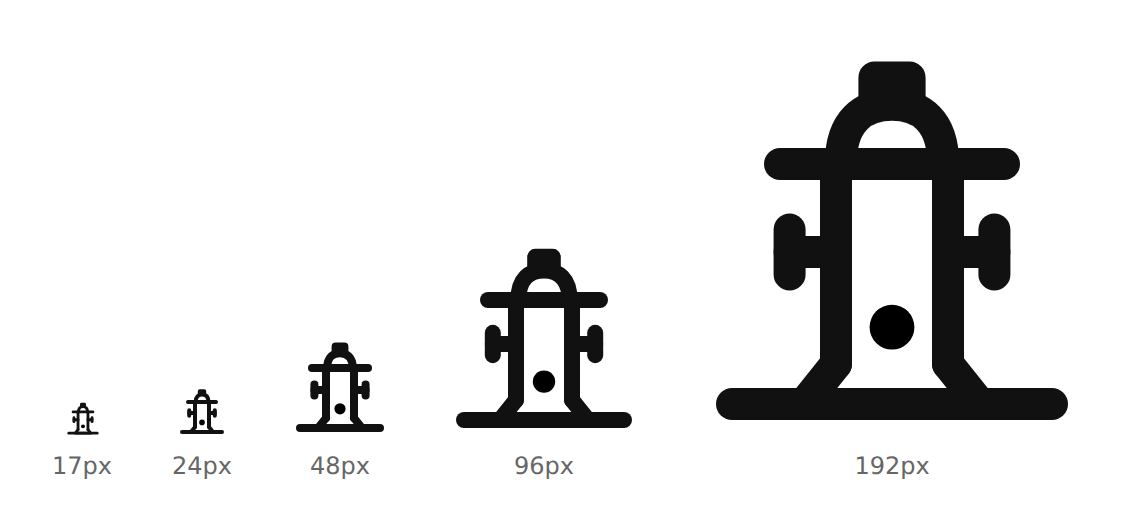
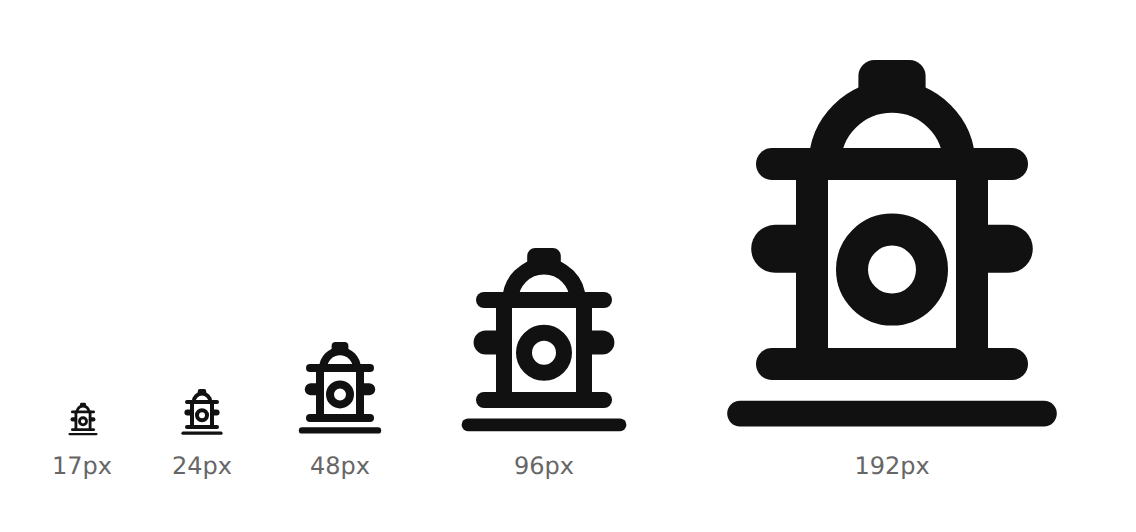
The hydrant follows Toms CAD: dome on a collar, a ring not a bolt

diff --git a/lib/Icons.lib.php b/lib/Icons.lib.php
@@ -422,46 +422,63 @@ $ec_icons = array(
 	// the `fire-flow` branch, not on master. It is a finished drawing with a Tom-reviewed shape, so
 	// it keeps its entry the way `plan` below does. Do not delete it as dead code.
 	//
-	// **IT IS A VERTICAL CYLINDER -- A PIPE WITH A FEW GOODIES ON IT.** That is Tom's correction of
-	// the first drawing, 2026-08-25, and it is a correction about PROPORTION, not about features:
-	// *"you missed the key physical reality that it's fundamentally a vertical cylinder (your main
-	// failure), meaning a pipe with a few goodies on it."* The first version was 9 units wide and 11
-	// tall and read as a squat box. This barrel is 7 wide and 12.5 tall, and the two flanges it is
-	// bracketed by -- the collar at the bonnet and the splayed foot -- are BOTH wider than it, which
-	// is what makes the eye read the middle as a length of pipe rather than as a body.
+	// **REDRAWN 2026-08-26 AGAINST TOM'S OWN CAD FRONT ELEVATION**, which he supplied twice --
+	// once as a wireframe/filled pair and once beside a commercial line icon -- with the ruling
+	// *"Hydrant PNG: unsuitable. Follow [the images] more closely."* Three things in the previous
+	// drawing were STRUCTURAL errors, not matters of taste, and they are the ones to not reintroduce:
+	//   the bonnet dome sprang from INSIDE the barrel walls with the collar drawn across its legs,
+	//     so it read as an arch cut into the barrel rather than a dome sitting on a flange;
+	//   the pumper nozzle was a solid disc, which at 96 px and above reads as a bolt hole;
+	//   the side nozzles were a stub plus a cross-bar, which reads as a bracket, not a nozzle.
+	// Now: the collar is a bar the dome STANDS ON, the pumper is a ring, and each side nozzle is a
+	// single round-capped stroke -- a pill, which is the shape both references actually show.
 	//
-	// Drawn from his own CAD front elevation, top to bottom: the operating nut (a small square,
-	// turned with a wrench to open the valve), the domed bonnet, the wide flat collar, the barrel,
-	// two side nozzles each with its own smaller nut, the pumper nozzle on the face, and the foot on
-	// a ground line. Every square and knob on a real hydrant is a nut for a wrench; the side and
-	// front ones take the dust caps off, the top one turns the water on.
+	// **THE BARREL IS WIDER THAN THE OLD ONE, AND THAT IS NOT A REVERSAL OF HIS "VERTICAL CYLINDER"
+	// CORRECTION.** He rejected a first drawing that was 9 wide and 11 tall as a squat box, and the
+	// fix taken then was a 7-wide barrel. Measured off his CAD, the barrel there is WIDER than it is
+	// tall; what makes the eye read it as a length of pipe is that the collar and the foot are both
+	// wider still and BRACKET it. So the bracketing carries the reading, not a narrow barrel -- and
+	// the extra width is what finally leaves room for a ring instead of a dot. Barrel walls at
+	// x = 7 and 17; collar and flange both 4.5 to 19.5.
 	//
-	// **WHAT DID NOT SURVIVE 17 px, MEASURED RATHER THAN JUDGED.** The nut inside the pumper circle
-	// is gone, and the pumper is a solid disc rather than a ring: a ring needs r >= 2.6 to hold an
-	// open centre, and the barrel only offers 5 units of clear width between its walls, so the ring
-	// fuses to both. Two other arrangements were drawn and measured first -- a disc sharing the
-	// nozzle band (the middle of the icon became one block) and a ring cut into the barrel walls
-	// with the nozzles above it (the nozzles fused to the ring) -- and both lost to this one, which
-	// separates the two nozzle levels VERTICALLY. Feature count was never the constraint; clear gap
-	// is, and every gap here is budgeted:
-	//   walls at x = 8.5 and 15.5, so 9.5..14.5 is clear inside -- 5 units
-	//   pumper disc r = 1.4 at (12, 17.2), spanning 10.6..13.4, so 1.1 units of air to each wall
-	//   side-nozzle nuts end at y = 14.9 painted; the disc starts at 15.8 -- 0.9 units below them
-	//   collar at y = 7 to the nozzle stubs at y = 12.5: 4.5 units of bare pipe, the cylinder read
+	// Drawn from that elevation, top to bottom: the operating nut (a small square, turned with a
+	// wrench to open the valve), the domed bonnet, the wide flat collar, the barrel, two side
+	// nozzles, the pumper nozzle on the face, the foot flange, and a ground line. Every square and
+	// knob on a real hydrant is a nut for a wrench; the side and front ones take the dust caps off,
+	// the top one turns the water on.
+	//
+	// **THE GAP BUDGET, which is what decides legibility at 17 px** (17/24 of a unit is 0.71 px, and
+	// a 2-unit stroke eats one unit either side of every line, so a gap under about 2.5 units
+	// closes). Feature count has never been the constraint here:
+	//   walls painted to x = 8 and 16, so 8 units of clear barrel face
+	//   ring r = 2.5 at (12, 13.6), painted 8.5..15.5 -- 0.5 units of air to each wall
+	//   ring interior 3 units across: it holds open to 96 px and closes below that, which degrades
+	//     to the old solid disc rather than to noise. That is why there is no nut inside the ring:
+	//     a third concentric feature has nowhere to be.
+	//   nozzle pills at y = 12.3, stroke 3, spanning y 10.8..13.8 -- 2.8 units below the collar
+	//   nozzles deliberately sit ABOVE the ring's centre and overlap its upper half, as the CAD
+	//     does; level with it, the three features read as one horizontal band.
+	//   flange painted to y = 20.5 and the ground line from 21.8 -- 1.3 units, which closes at 48 px
+	//     and below into a single base, an acceptable reading.
 	// The nut, the bonnet and the collar deliberately TOUCH -- a nut sits on a bonnet and a bonnet
-	// sits on a flange, so there is no gap there to spend. Same for the foot on the ground line.
-	// Verify with:
-	//     php dev/scripts/icon_ascii_preview.php hydrant --size=17
+	// sits on a flange, so there is no gap there to spend.
 	//
-	// Cubics, never an `A` arc, for the bonnet dome: icon_ascii_preview.php models M/L/H/V/C/Z
-	// only, so an arc renders as nonsense there and the one tool that can measure this goes blind.
-	'hydrant'    => '<path d="M2 22H22"/><path d="M8.5 19.5L6.5 22H17.5L15.5 19.5"/>'
-		. '<path d="M8.5 19.5V7"/><path d="M15.5 19.5V7"/><path d="M5 7H19"/>'
-		. '<path d="M8.8 7C8.8 4.3 10.2 3.3 12 3.3C13.8 3.3 15.2 4.3 15.2 7"/>'
-		. '<path d="M10.9 3.3V1.6H13.1V3.3"/>'
-		. '<path d="M8.5 12.5H5.6"/><path d="M5.6 11.1V13.9"/>'
-		. '<path d="M15.5 12.5H18.4"/><path d="M18.4 11.1V13.9"/>'
-		. '<circle cx="12" cy="17.2" r="1.4" fill="currentColor" stroke="none"/>',
+	// The ground line is stroke 1.6, lighter than everything else: it is a reference line, not part
+	// of the object. Verify with a real rendering, not ASCII:
+	//     node dev/scripts/icon_png_preview.js hydrant
+	//
+	// Cubics, never an `A` arc, for the bonnet dome and the ring: icon_ascii_preview.php models
+	// M/L/H/V/C/Z only, so an arc renders as nonsense there and that tool goes blind.
+	'hydrant'    => '<path stroke-width="1.6" d="M2.5 22.6H21.5"/>'
+		. '<path d="M4.5 19.5H19.5"/>'
+		. '<path d="M7 19.5V7"/><path d="M17 19.5V7"/>'
+		. '<path d="M4.5 7H19.5"/>'
+		. '<path d="M7.8 7C7.8 4.68 9.68 2.8 12 2.8C14.32 2.8 16.2 4.68 16.2 7"/>'
+		. '<path d="M10.9 2.8V1.5H13.1V2.8"/>'
+		. '<path stroke-width="3" d="M6.4 12.3H4.7"/>'
+		. '<path stroke-width="3" d="M17.6 12.3H19.3"/>'
+		. '<path d="M12 11.1C13.38 11.1 14.5 12.22 14.5 13.6C14.5 14.98 13.38 16.1 12 16.1'
+		. 'C10.62 16.1 9.5 14.98 9.5 13.6C9.5 12.22 10.62 11.1 12 11.1Z"/>',
 
 	// CANDIDATES for the Water menu, drawn 2026-08-25. Tom: the drop and the eye *"don't look
 	// different enough, especially with the association of tears and eyes"*. He named a water tower

diff --git a/dev/ROADMAP.md b/dev/ROADMAP.md
@@ -746,6 +746,14 @@ the block.
   - **[H] Three condition wordings still fail Tom's own test** — can a reader who has never seen our
     source tell what it asks? `is broken` failed it and is now his wording, *"is cut off for any
     reason"*. `has no links`, `is behind closed links` and `reaches no source` are unjudged.
+    - **[H] AND TOM READ THE LAST TWO AS THE SAME THING, 2026-08-26:** *"It sounds to me like
+      options (c) and (d) are equivalent."* **In the code they are mutually exclusive; in the
+      words they are not.** `reaches no source` is literally true of a node behind closed links
+      too, so it reads as the umbrella rather than as the sibling — which is `is cut off for any
+      reason`'s job. The two differ by REMEDY, and that is the thing to name:
+      **`is behind closed links` → open a valve** (a whole path of pipe exists);
+      **`reaches no source` → build a connection** (this node is on a separate island).
+      Proposed for the second, awaiting his wording: `is on a separate network`. His call.
     Renaming stays cheap: the parser reads the def lists, so a changed word changes what it accepts.
   - **When the typed query outruns the controls, the controls LEAVE**, and one button brings them
     back to the last query they did express. The rejected alternatives were showing the first
